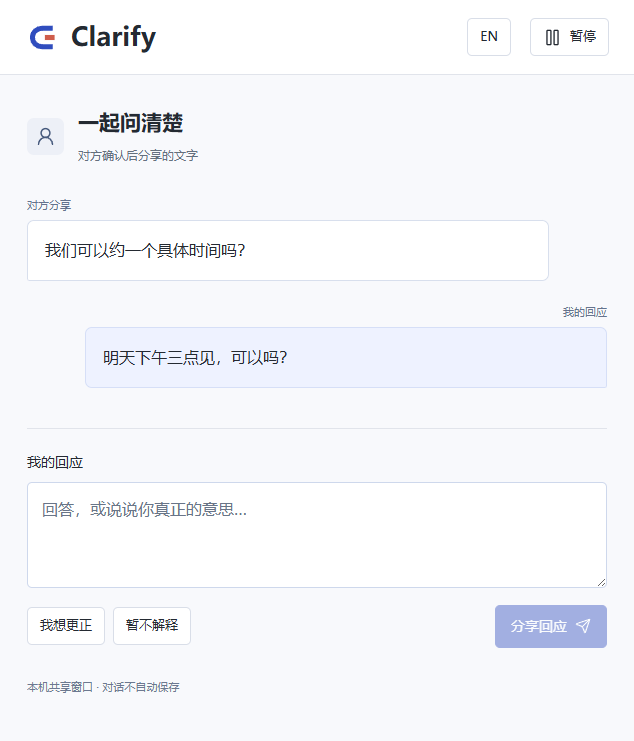
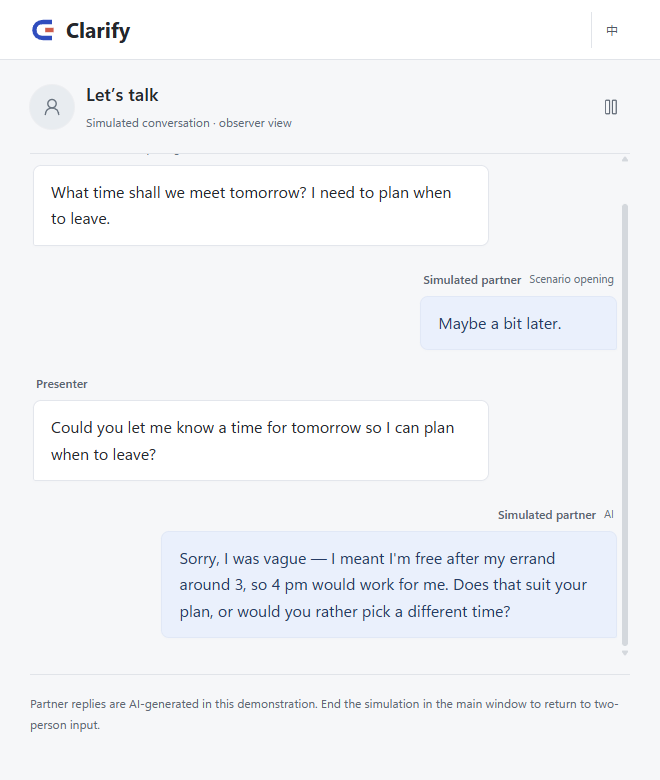
refine(clarify): fully English UI captures from live app

diff --git a/projects/clarify.html b/projects/clarify.html
@@ -101,7 +101,7 @@
 <section class="cl-block">
 <div class="cl-block-media">
 <figure>
-<img alt="The partner window: the recipient sees the clarification request and can answer, correct the premise, pause, or decline." decoding="async" height="741" loading="lazy" src="../images/clarify/partner.png" width="634"/>
+<img alt="The partner window: the recipient sees the clarification request and can answer, correct the premise, pause, or decline." decoding="async" height="780" loading="lazy" src="../images/clarify/partner.png" width="660"/>
 <figcaption class="cl-caption" style="padding:12px 14px 0">The partner window, not a chat window.</figcaption>
 </figure>
 </div>
@@ -116,7 +116,7 @@
 <section class="cl-block cl-block-rev">
 <div class="cl-block-media">
 <figure>
-<img alt="Clarify with a live model connected: suggested phrasings generated from the user's stated goal." decoding="async" height="861" loading="lazy" src="../images/clarify/live-ai.png" width="1344"/>
+<img alt="Clarify with a live model connected: suggested phrasings generated from the user's stated goal." decoding="async" height="895" loading="lazy" src="../images/clarify/live-ai.png" width="400"/>
 <figcaption class="cl-caption" style="padding:12px 14px 0">With a model connected, suggestions come from your own goal — not from the other person's words.</figcaption>
 </figure>
 </div>
@@ -131,7 +131,7 @@
 <section class="cl-block">
 <div class="cl-block-media">
 <figure>
-<img alt="The clarification conversation view showing how the request and the reply sit side by side within the ongoing conversation." decoding="async" height="781" loading="lazy" src="../images/clarify/conversation.png" width="1164"/>
+<img alt="The clarification conversation view showing how the request and the reply sit side by side within the ongoing conversation." decoding="async" height="950" loading="lazy" src="../images/clarify/conversation.png" width="1440"/>
 <figcaption class="cl-caption" style="padding:12px 14px 0">The request lives inside the conversation, not beside it.</figcaption>
 </figure>
 </div>
